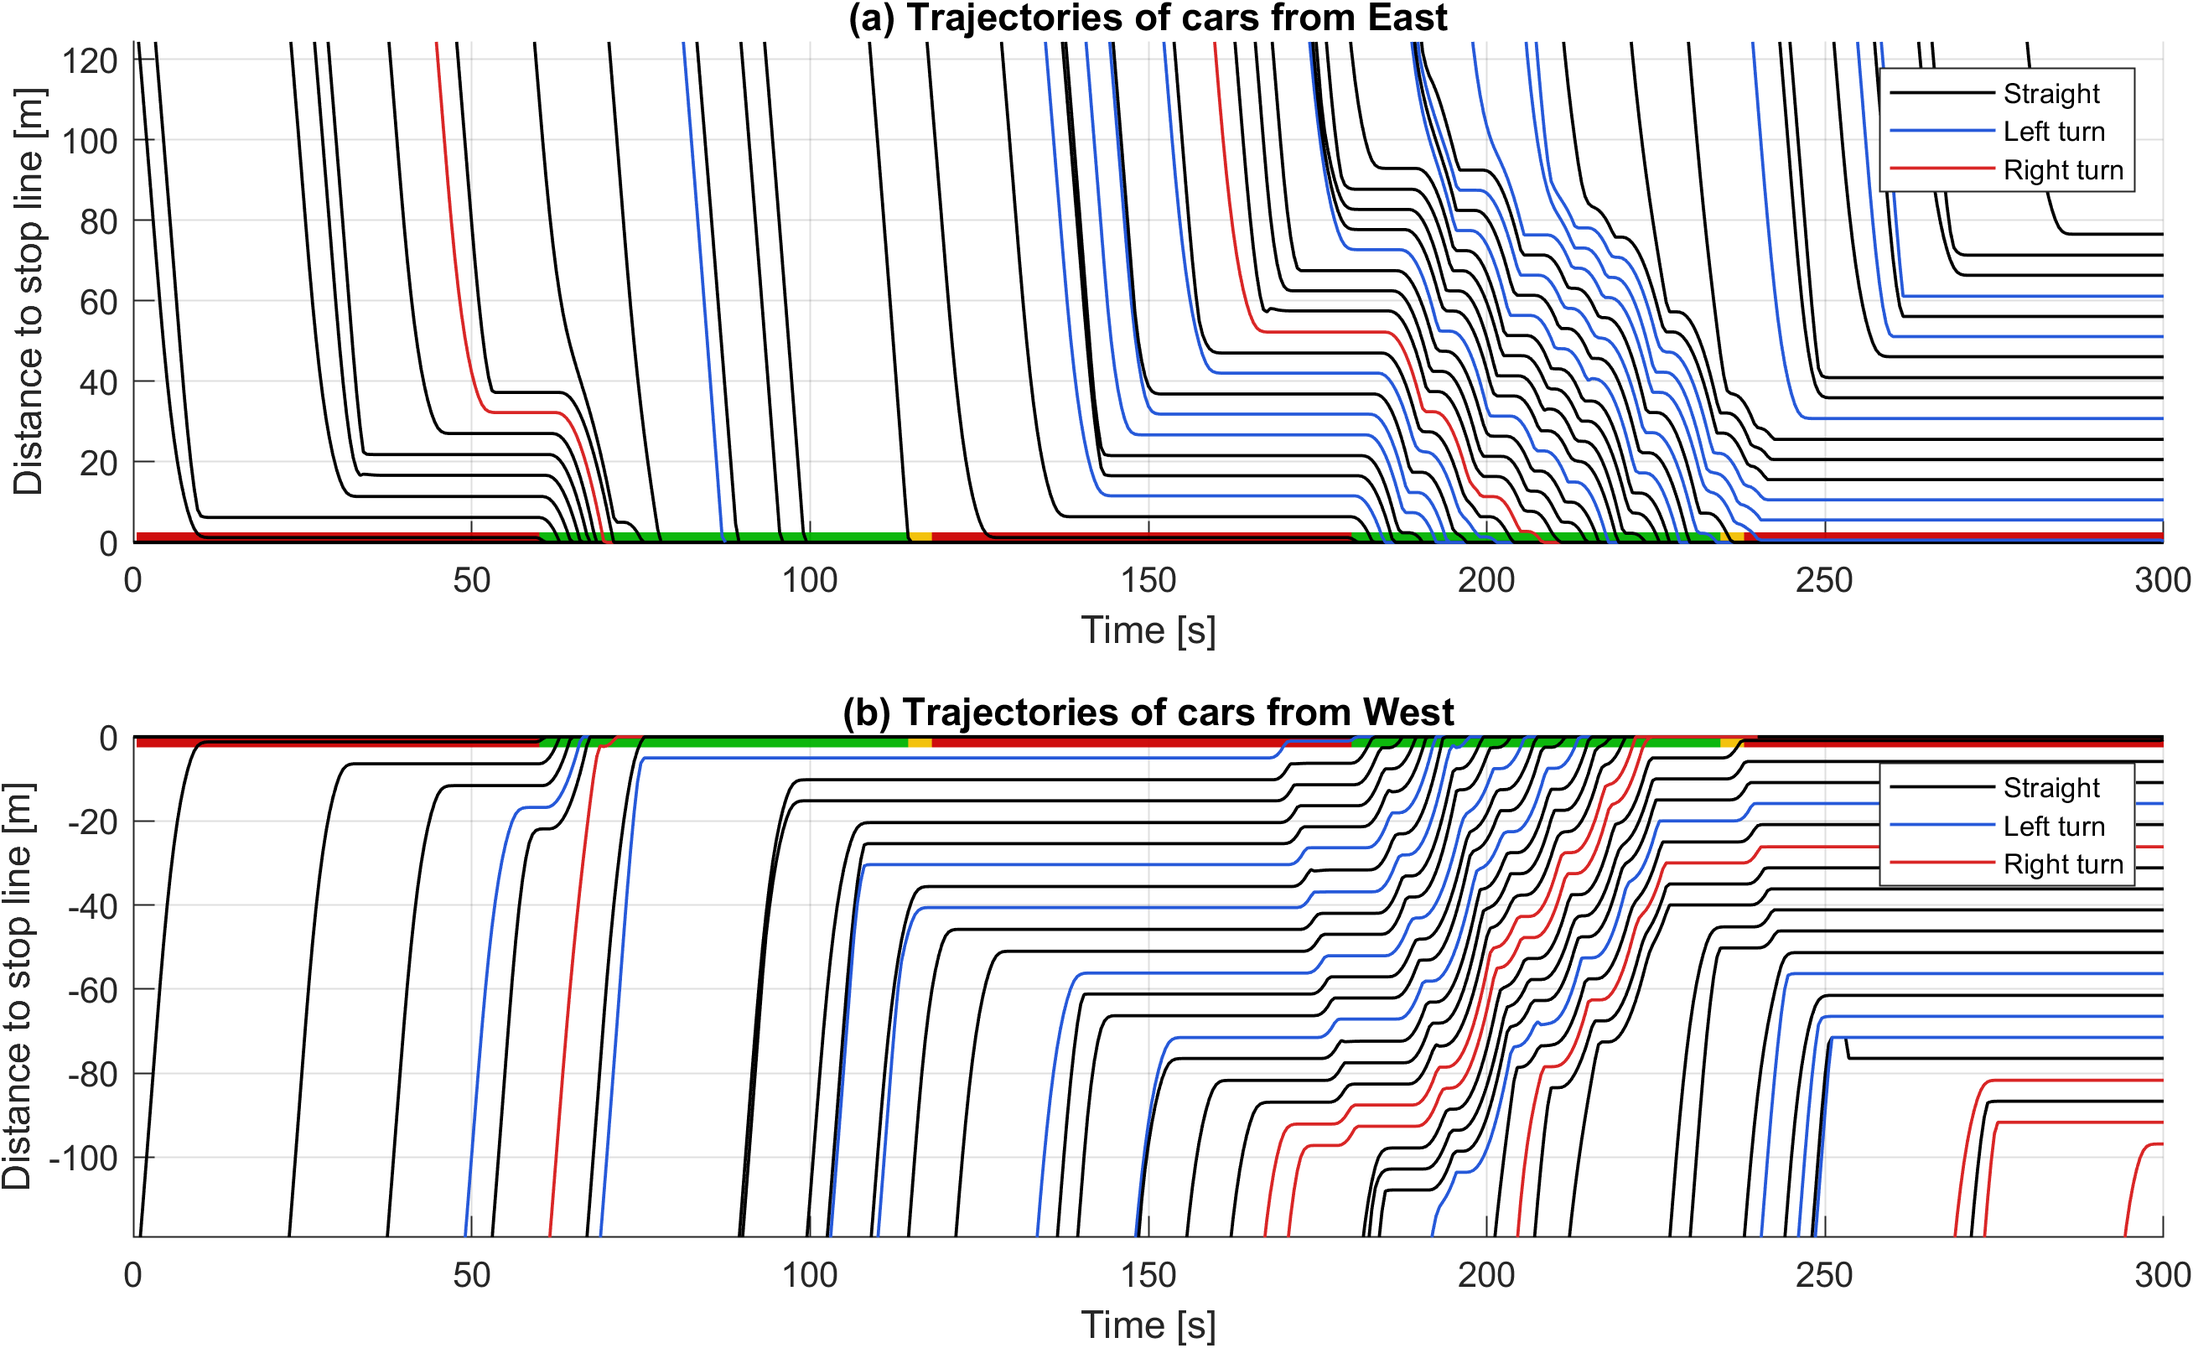
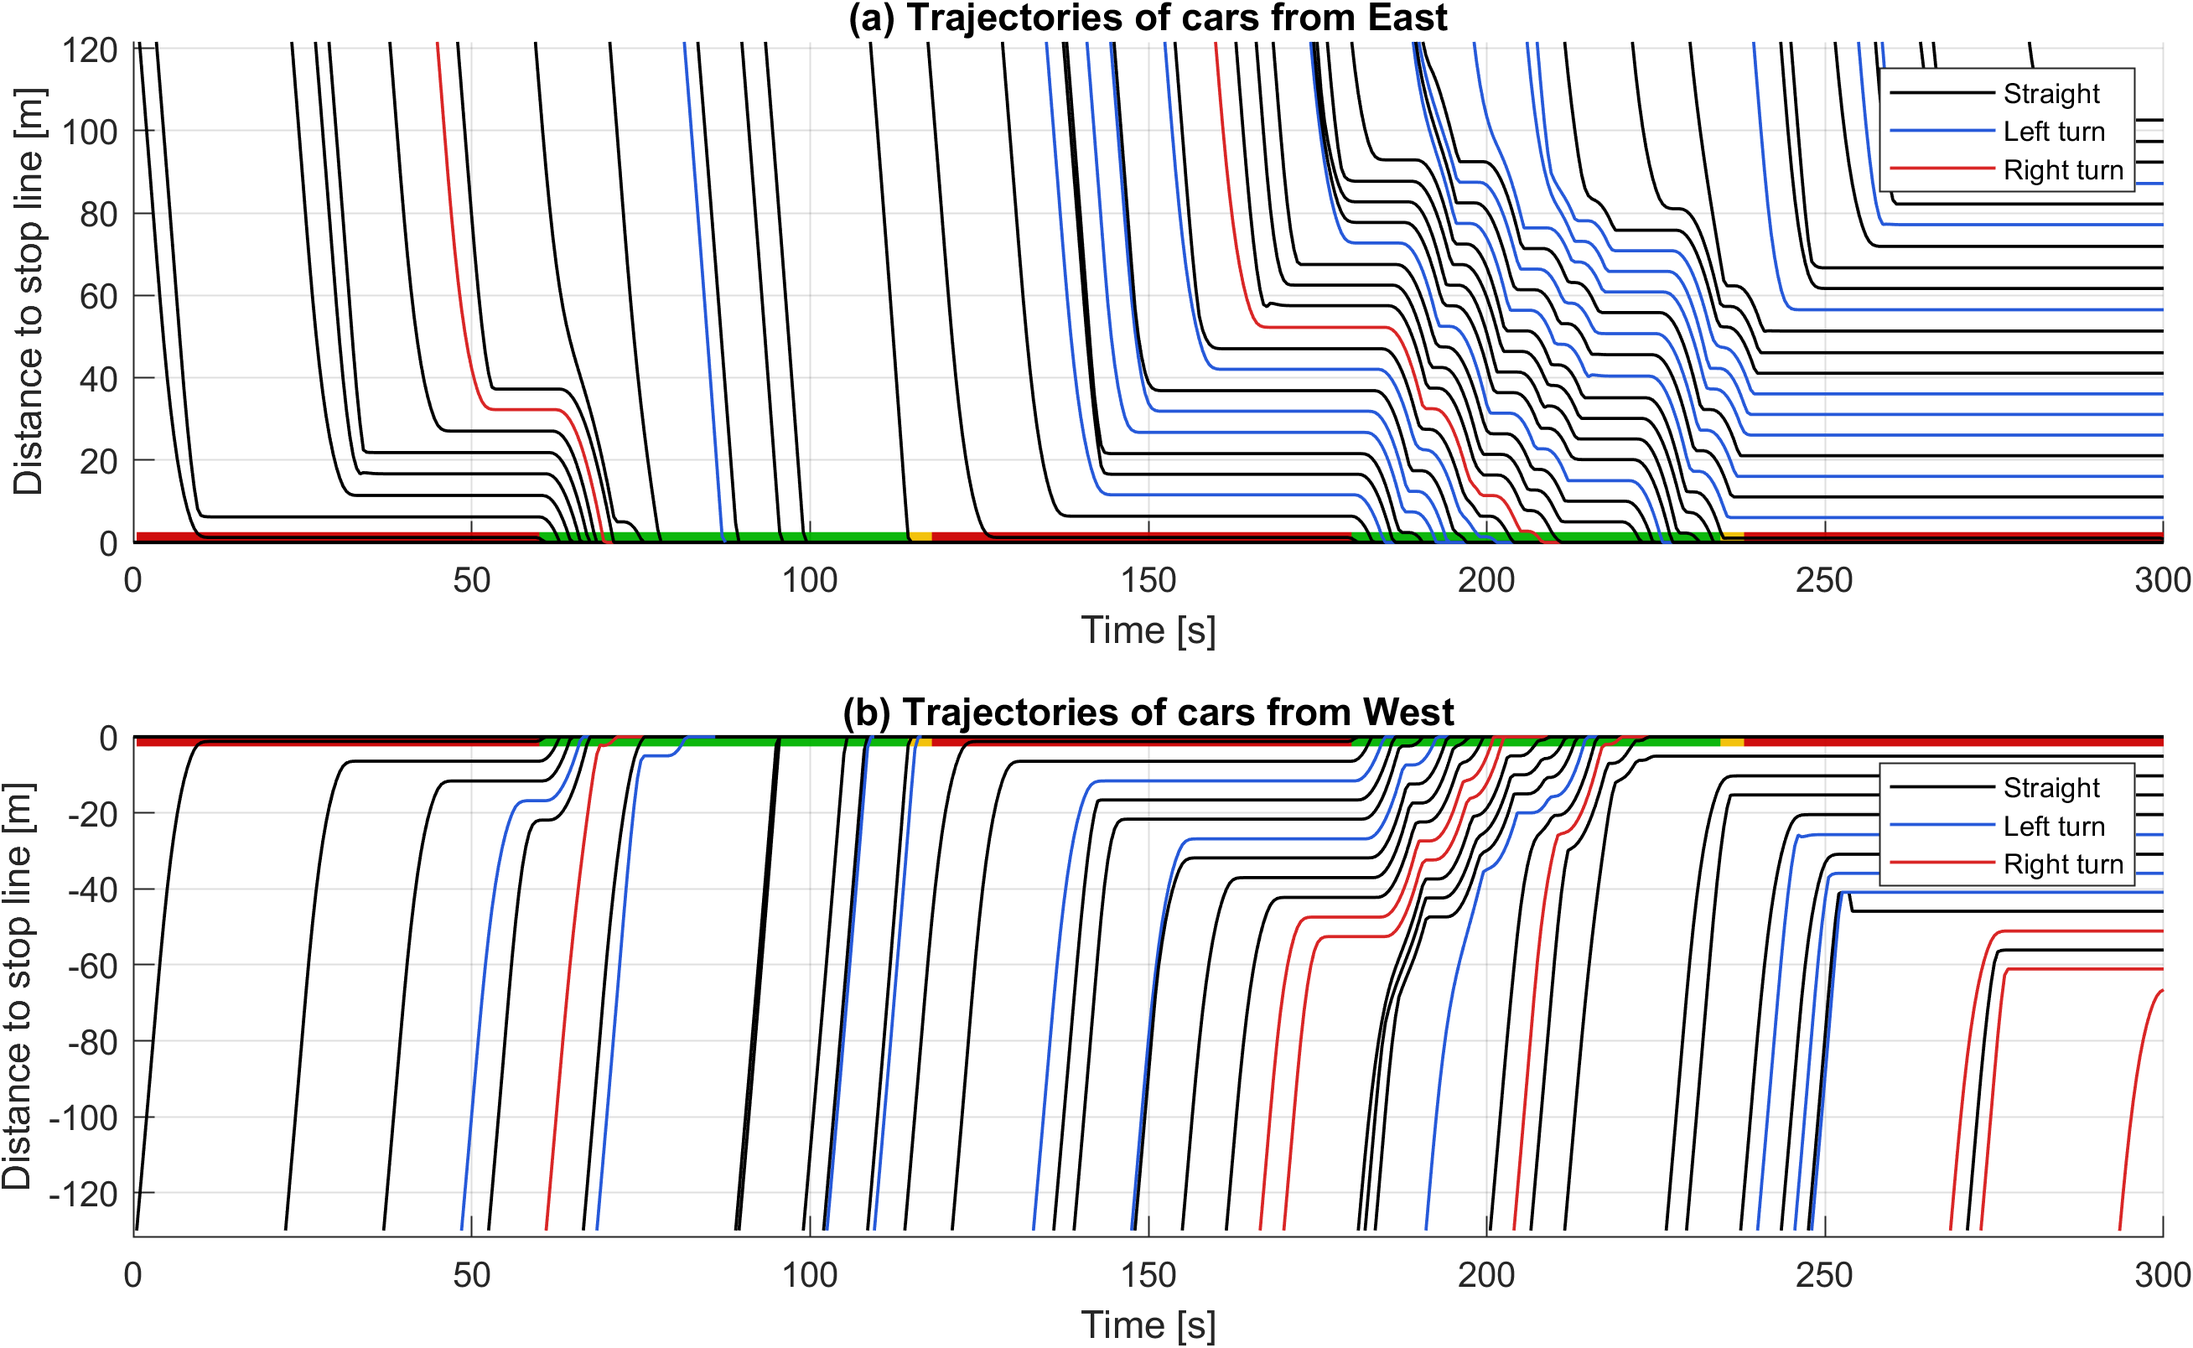
Optimization mutual proceed fixed

diff --git a/class/LATEST_OLD_RSU.m b/class/LATEST_OLD_RSU.m
@@ -716,15 +716,11 @@ classdef RSU<handle
             didRun = false;
 
             if strcmp(greenDir, 'EW')
-                % Use sorted order (closest to stop line first) so the frontmost
-                % right-turner gets the slot, not an arbitrary arrival-order car.
-                [ids_W, ~] = obj.GetSortedVehiclesByDir('W');
-                [ids_E, ~] = obj.GetSortedVehiclesByDir('E');
+                % Collect right-turners currently known
+                ids_W = obj.GetActiveVehicles('W');
+                ids_E = obj.GetActiveVehicles('E');
 
-                % Find unturned right-turners (before or past stop line).
-                % Past-stop-line turners are at turn_wait — they are included
-                % so that EstimateAllArrivalTimesIDM (fixed below) can assign
-                % them tau=dt_sim and the optimizer can compute a safe gap.
+                % Find unturned right-turners
                 wTurner = [];
                 for i = 1:length(ids_W)
                     d = obj.GetVehicleData(ids_W(i));
@@ -774,8 +770,8 @@ classdef RSU<handle
                 end
 
             elseif strcmp(greenDir, 'NS')
-                [ids_N, ~] = obj.GetSortedVehiclesByDir('N');
-                [ids_S, ~] = obj.GetSortedVehiclesByDir('S');
+                ids_N = obj.GetActiveVehicles('N');
+                ids_S = obj.GetActiveVehicles('S');
 
                 nTurner = [];
                 for i = 1:length(ids_N)
@@ -845,24 +841,8 @@ classdef RSU<handle
         %% Decision
         function [vpos, turn_signal] = RightTurnOpt(obj, vehicleID, t)
             % Unified right-turn decision interface
+            % Handles: mutual right-turn (no conflict) AND normal optimization
             % Returns: vpos (struct with recommendation), turn_signal (+1=go, -1=wait, 0=no opinion)
-            %
-            % Logic:
-            %   STEP 1 – Mutual right-turn (W→N vs E→S, or N→E vs S→W):
-            %            no conflict between them, both can proceed as soon as
-            %            opposing straight traffic is clear.
-            %            FIX vs original: also sets wTurnerID/eTurnerID so
-            %            RunGreenPhaseOptimization stops re-firing every timestep.
-            %
-            %   STEP 2 – At-line gap check (car already past stop line):
-            %            handles the case where the opposing turner already left
-            %            and this car is now alone at the line.  Original code
-            %            fell through to the IDM optimizer which returned q=[]
-            %            (past-stop-line car excluded from arrival list) → NaN
-            %            → stuck until next cycle.
-            %
-            %   STEP 3 – Normal optimization (car still in queue, before stop line):
-            %            standard gap-slot optimization against straight traffic.
 
             global TrafficLight
 
@@ -873,162 +853,141 @@ classdef RSU<handle
 
             data = obj.GetVehicleDataFromShort(vehicleID, tempData.Dir);
             if isempty(data) || ~data.TurnRight
-                vpos = []; turn_signal = 0; return;
+                vpos = [];
+                turn_signal = 0;
+                return;
             end
 
             dir = data.Dir;
 
-            % Opposing direction
+            % ============================================================
+            % STEP 1: Check for MUTUAL RIGHT-TURN (no conflict case)
+            % ============================================================
+            % Opposite right-turners don't conflict:
+            %   W→N vs E→S : different quadrants
+            %   N→E vs S→W : different quadrants
+
+            oppositeDir = '';
             switch dir
-                case 'W', oppDir = 'E';
-                case 'E', oppDir = 'W';
-                case 'N', oppDir = 'S';
-                case 'S', oppDir = 'N';
-                otherwise, oppDir = '';
+                case 'W', oppositeDir = 'E';
+                case 'E', oppositeDir = 'W';
+                case 'N', oppositeDir = 'S';
+                case 'S', oppositeDir = 'N';
             end
 
-            % ── Helper: register this car in opt_results so the loop stops ──
-            function registerTurnerID()
-                if strcmp(dir,'E') || strcmp(dir,'W')
-                    if ~isfield(obj.opt_results,'EW') || isempty(obj.opt_results.EW)
-                        obj.opt_results.EW = struct();
-                    end
-                    if strcmp(dir,'W'), obj.opt_results.EW.wTurnerID = vehicleID;
-                    else,               obj.opt_results.EW.eTurnerID = vehicleID; end
-                else
-                    if ~isfield(obj.opt_results,'NS') || isempty(obj.opt_results.NS)
-                        obj.opt_results.NS = struct();
-                    end
-                    if strcmp(dir,'N'), obj.opt_results.NS.nTurnerID = vehicleID;
-                    else,               obj.opt_results.NS.sTurnerID = vehicleID; end
-                end
-            end
-
-            % ============================================================
-            % STEP 1: MUTUAL RIGHT-TURN — both proceed unconditionally
-            % ============================================================
-            % W→N and E→S (or N→E and S→W) go into different quadrants.
-            % There is zero physical conflict between them.
-            % No gap check needed — just proceed and register IDs so the loop stops.
-            if ~isempty(oppDir)
-                opposingTurner = obj.FindFirstRightTurner(oppDir);
+            if ~isempty(oppositeDir)
+                opposingTurner = obj.FindFirstRightTurner(oppositeDir);
                 if ~isempty(opposingTurner)
-                    fprintf('[t=%.1f] MUTUAL RIGHT-TURN: %s(%d) & %s(%d) - BOTH PROCEED\n', ...
-                        t, dir, vehicleID, oppDir, opposingTurner);
-                    registerTurnerID();
-                    turn_signal = 1;
-                    vpos = struct('vehicle_id',vehicleID,'direction',dir,...
-                                  'action','mutual_turn','recommended_V',3.0,...
-                                  'coordinated_tau',0);
+                    % Mutual right-turn detected - BOTH can proceed safely!
+                    fprintf('[t=%.1f] MUTUAL RIGHT-TURN: %s(%d) and %s(%d) - BOTH PROCEED\n', ...
+                        t, dir, vehicleID, oppositeDir, opposingTurner);
+
+                    vpos = struct();
+                    vpos.vehicle_id = vehicleID;
+                    vpos.direction = dir;
+                    vpos.action = 'mutual_turn';
+                    vpos.recommended_V = 3.0;  % Safe turning speed
+                    vpos.coordinated_tau = 0;
+                    turn_signal = 1;  % PROCEED
                     return;
                 end
             end
 
             % ============================================================
-            % STEP 2: AT-LINE GAP CHECK (car past stop line, no opp turner)
-            % ============================================================
-            % Opposing right-turner is gone; this car is alone at the line.
-            % Normal optimizer excludes past-stop-line cars (q=[]) → NaN.
-            % Do a direct gap check instead.
-            if ~obj.IsBeforeStopLine(data)
-                gap_clear = true;
-                if ~isempty(oppDir)
-                    [opp_ids, opp_taus] = obj.EstimateAllArrivalTimesIDM(oppDir, TrafficLight);
-                    for ki = 1:length(opp_ids)
-                        od = obj.GetVehicleData(opp_ids(ki));
-                        if ~isempty(od) && ~od.TurnRight
-                            if isfinite(opp_taus(ki)) && opp_taus(ki) < obj.tau_safe
-                                gap_clear = false; break;
-                            end
-                        end
-                    end
-                end
-
-                registerTurnerID();
-
-                if gap_clear
-                    turn_signal = 1;
-                    vpos = struct('vehicle_id',vehicleID,'direction',dir,...
-                                  'action','at_line_gap_clear','recommended_V',3.0,...
-                                  'coordinated_tau',0);
-                else
-                    turn_signal = -1;
-                    vpos = struct('vehicle_id',vehicleID,'direction',dir,...
-                                  'action','at_line_wait_gap','recommended_V',NaN,...
-                                  'coordinated_tau',NaN);
-                end
-                return;
-            end
-
-            % ============================================================
-            % STEP 3: NORMAL OPTIMIZATION (car still in queue)
+            % STEP 2: Normal optimization (single turner vs straight traffic)
             % ============================================================
             tau = NaN;
 
             if strcmp(dir, 'E') || strcmp(dir, 'W')
+                % hasValidOpt must use the DIRECTION-SPECIFIC turner ID fields
+                % (wTurnerID / eTurnerID), NOT turningCarID.
+                %
+                % Bug that was here: turningCarID alternates — EW writes
+                % turningCarID=wID, then EW_Reverse writes turningCarID=eID.
+                % So a W car always saw turningCarID≠wID and re-ran EW, which
+                % made the E car re-run EW_Reverse, creating a per-timestep loop
+                % that produced hundreds of redundant optimization calls and
+                % kept the old (Inf-Inf=NaN) cost result in the print output.
                 hasValidOpt = isfield(obj.opt_results, 'EW') && ~isempty(obj.opt_results.EW);
+
                 if hasValidOpt
                     if strcmp(dir, 'W')
-                        if ~isfield(obj.opt_results.EW,'wTurnerID') || ...
+                        % W turner: check wTurnerID field
+                        if ~isfield(obj.opt_results.EW, 'wTurnerID') || ...
                            ~isequal(obj.opt_results.EW.wTurnerID, vehicleID)
-                            % Different W turner holds the slot — queue behind it
-                            vpos = struct('vehicle_id',vehicleID,'direction',dir,...
-                                         'action','queue_wait','recommended_V',NaN,'coordinated_tau',NaN);
-                            turn_signal = -1; return;
+                            hasValidOpt = false;
                         end
                     else
-                        if ~isfield(obj.opt_results.EW,'eTurnerID') || ...
+                        % E turner: check eTurnerID field
+                        if ~isfield(obj.opt_results.EW, 'eTurnerID') || ...
                            ~isequal(obj.opt_results.EW.eTurnerID, vehicleID)
-                            vpos = struct('vehicle_id',vehicleID,'direction',dir,...
-                                         'action','queue_wait','recommended_V',NaN,'coordinated_tau',NaN);
-                            turn_signal = -1; return;
+                            hasValidOpt = false;
                         end
                     end
                 end
+
                 if ~hasValidOpt
-                    if strcmp(dir,'W'), obj.OptimizeRightTurn_EW(vehicleID, TrafficLight);
-                    else,               obj.OptimizeRightTurn_EW_Reverse(vehicleID, TrafficLight); end
+                    if strcmp(dir, 'W')
+                        obj.OptimizeRightTurn_EW(vehicleID, TrafficLight);
+                    else
+                        obj.OptimizeRightTurn_EW_Reverse(vehicleID, TrafficLight);
+                    end
                 end
+
                 tau = obj.GetCoordinatedArrivalTime(vehicleID, dir);
 
             else  % N or S
                 hasValidOpt = isfield(obj.opt_results, 'NS') && ~isempty(obj.opt_results.NS);
+
                 if hasValidOpt
                     if strcmp(dir, 'N')
-                        if ~isfield(obj.opt_results.NS,'nTurnerID') || ...
+                        if ~isfield(obj.opt_results.NS, 'nTurnerID') || ...
                            ~isequal(obj.opt_results.NS.nTurnerID, vehicleID)
-                            vpos = struct('vehicle_id',vehicleID,'direction',dir,...
-                                         'action','queue_wait','recommended_V',NaN,'coordinated_tau',NaN);
-                            turn_signal = -1; return;
+                            hasValidOpt = false;
                         end
                     else
-                        if ~isfield(obj.opt_results.NS,'sTurnerID') || ...
+                        if ~isfield(obj.opt_results.NS, 'sTurnerID') || ...
                            ~isequal(obj.opt_results.NS.sTurnerID, vehicleID)
-                            vpos = struct('vehicle_id',vehicleID,'direction',dir,...
-                                         'action','queue_wait','recommended_V',NaN,'coordinated_tau',NaN);
-                            turn_signal = -1; return;
+                            hasValidOpt = false;
                         end
                     end
                 end
+
                 if ~hasValidOpt
-                    if strcmp(dir,'N'), obj.OptimizeRightTurn_NS(vehicleID, TrafficLight);
-                    else,               obj.OptimizeRightTurn_NS_Reverse(vehicleID, TrafficLight); end
+                    if strcmp(dir, 'N')
+                        obj.OptimizeRightTurn_NS(vehicleID, TrafficLight);
+                    else
+                        obj.OptimizeRightTurn_NS_Reverse(vehicleID, TrafficLight);
+                    end
                 end
+
                 tau = obj.GetCoordinatedArrivalTime(vehicleID, dir);
             end
 
-            % Build response
-            vpos = struct('vehicle_id',vehicleID,'coordinated_tau',tau,'direction',dir);
+            % ============================================================
+            % STEP 3: Build response
+            % ============================================================
+            vpos = struct();
+            vpos.vehicle_id = vehicleID;
+            vpos.coordinated_tau = tau;
+            vpos.direction = dir;
+
             if isnan(tau)
                 turn_signal = 0;
-                vpos.recommended_V = NaN; vpos.action = 'no_coordination';
+                vpos.recommended_V = NaN;
+                vpos.action = 'no_coordination';
             else
                 V_rec = obj.CalculateRecommendedVelocity(vehicleID, tau, t);
                 vpos.recommended_V = V_rec;
-                if tau <= 0.5
-                    turn_signal = 1;  vpos.action = 'proceed';
+
+                time_to_turn = tau;
+
+                if time_to_turn <= 0.5
+                    turn_signal = 1;  % PROCEED
+                    vpos.action = 'proceed';
                 else
-                    turn_signal = -1; vpos.action = 'wait';
+                    turn_signal = -1;  % WAIT
+                    vpos.action = 'wait';
                 end
             end
         end
@@ -1166,19 +1125,11 @@ classdef RSU<handle
             dirs = {'N','S','E','W'};
             for d=1:4, fprintf('%s:%d ', dirs{d}, length(obj.active_vehicles.(dirs{d}))); end
             fprintf('\n');
-            if isfield(obj.opt_results,'EW') && ~isempty(obj.opt_results.EW)
-                if isfield(obj.opt_results.EW,'opt_p') && isfield(obj.opt_results.EW,'min_cost')
-                    fprintf('EW: p=%d cost=%.2f\n', obj.opt_results.EW.opt_p, obj.opt_results.EW.min_cost);
-                else
-                    fprintf('EW: (mutual/at-line mode)\n');
-                end
+            if isfield(obj.opt_results,'EW')&&~isempty(obj.opt_results.EW)
+                fprintf('EW: p=%d cost=%.2f\n', obj.opt_results.EW.opt_p, obj.opt_results.EW.min_cost);
             end
-            if isfield(obj.opt_results,'NS') && ~isempty(obj.opt_results.NS)
-                if isfield(obj.opt_results.NS,'opt_p') && isfield(obj.opt_results.NS,'min_cost')
-                    fprintf('NS: p=%d cost=%.2f\n', obj.opt_results.NS.opt_p, obj.opt_results.NS.min_cost);
-                else
-                    fprintf('NS: (mutual/at-line mode)\n');
-                end
+            if isfield(obj.opt_results,'NS')&&~isempty(obj.opt_results.NS)
+                fprintf('NS: p=%d cost=%.2f\n', obj.opt_results.NS.opt_p, obj.opt_results.NS.min_cost);
             end
         end
 
